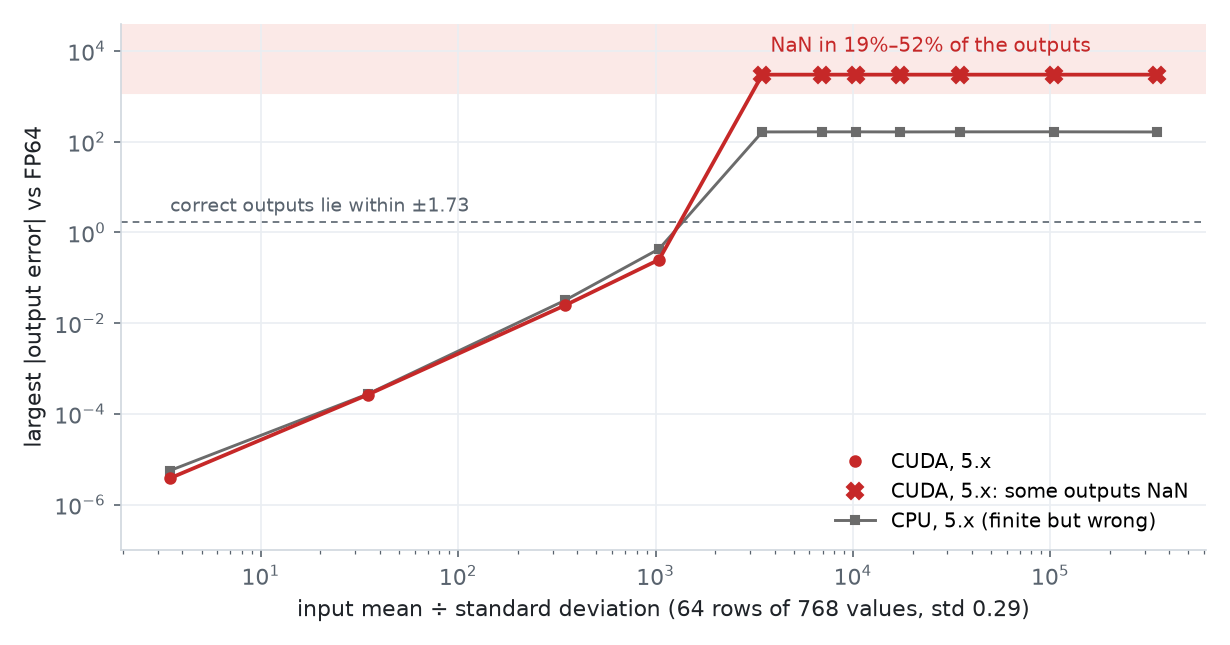
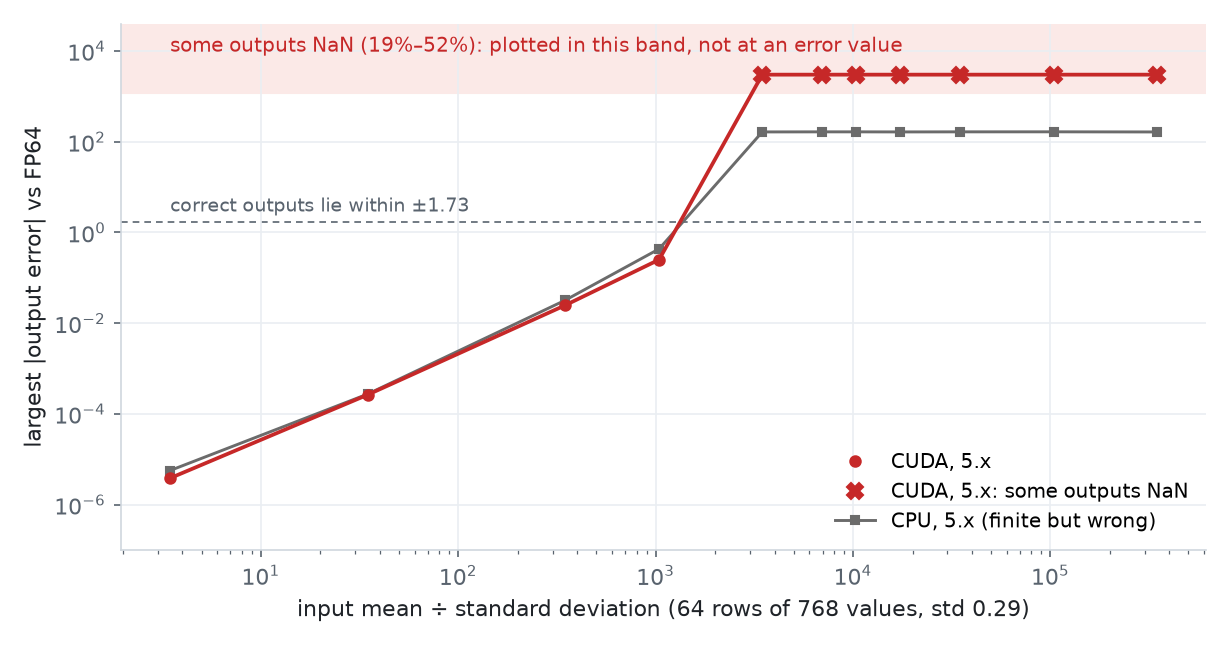
opencv-gpu-audit-2026-11: relabel charts, add the MatMul program and the no-bias Attention models

Changed region(s): [[0.1236, 0.062, 0.8959, 0.093]]

diff --git a/opencv-gpu-audit-2026-11/rewrite-2026-11-18/programs/matmul_bias.cpp b/opencv-gpu-audit-2026-11/rewrite-2026-11-18/programs/matmul_bias.cpp
@@ -1,0 +1,56 @@
+// #30922: CUDA MatMul with a constant 3-D B: alpha, and the device memory taken by a broadcast bias
+#include <opencv2/dnn.hpp>
+#include <opencv2/core/cuda.hpp>
+#include <cstdio>
+
+using namespace cv;
+using namespace cv::dnn;
+
+static Mat run(LayerParams lp, const Mat& a, int backend, int target)
+{
+    Net net;
+    net.addLayerToPrev(lp.name, lp.type, lp);
+    net.setPreferableBackend(backend);
+    net.setPreferableTarget(target);
+    net.setInput(a);
+    return net.forward().clone();
+}
+
+int main()
+{
+    // 1. alpha = 1.5, beta = 0.5: CPU and CUDA should agree
+    {
+        Mat A({2, 5, 12}, CV_32F), B({1, 12, 16}, CV_32F), bias(std::vector<int>{16}, CV_32F);
+        randu(A, -1.f, 1.f); randu(B, -0.5f, 0.5f); randu(bias, 1.f, 2.f);
+        LayerParams lp;
+        lp.type = "MatMul"; lp.name = "mm";
+        lp.set("alpha", 1.5f); lp.set("beta", 0.5f); lp.set("real_ndims_C", 1);
+        lp.blobs = {B, bias};
+        Mat cpu = run(lp, A, DNN_BACKEND_OPENCV, DNN_TARGET_CPU);
+        Mat gpu = run(lp, A, DNN_BACKEND_CUDA, DNN_TARGET_CUDA);
+        std::printf("alpha 1.5, beta 0.5: max |CPU - CUDA| = %g (expected < 1e-5)\n", norm(cpu, gpu, NORM_INF));
+    }
+    // 2. [16, 1024, 128] x [1, 128, 1024] + bias[1024]: device memory kept after the first forward()
+    {
+        Mat A({16, 1024, 128}, CV_32F), B({1, 128, 1024}, CV_32F), bias(std::vector<int>{1024}, CV_32F);
+        randu(A, -1.f, 1.f); randu(B, -0.1f, 0.1f); randu(bias, -1.f, 1.f);
+        LayerParams lp;
+        lp.type = "MatMul"; lp.name = "mm";
+        lp.set("real_ndims_C", 1);
+        lp.blobs = {B, bias};
+        run(lp, A, DNN_BACKEND_CUDA, DNN_TARGET_CUDA);  // loads the CUDA libraries
+        cuda::DeviceInfo info;
+        const size_t free0 = info.freeMemory();
+        Net net;
+        net.addLayerToPrev(lp.name, lp.type, lp);
+        net.setPreferableBackend(DNN_BACKEND_CUDA);
+        net.setPreferableTarget(DNN_TARGET_CUDA);
+        net.setInput(A);
+        net.forward();
+        const size_t free1 = info.freeMemory();
+        std::printf("[16, 1024, 128] x [1, 128, 1024] + bias[1024]: %.0f MiB of device memory after the first forward()\n",
+                    (double)(free0 - free1) / (1 << 20));
+        std::printf("(input 8 MiB, weight 0.5 MiB, output 64 MiB)\n");
+    }
+    return 0;
+}

diff --git a/opencv-gpu-audit-2026-11/rewrite-2026-11-18/programs/plot_figures.py b/opencv-gpu-audit-2026-11/rewrite-2026-11-18/programs/plot_figures.py
@@ -44,11 +44,11 @@ def norm_chart(with_fix, path):
     ax.plot(xc, yc, "s-", color=GREY, lw=1.4, ms=4, zorder=2, label="CPU, 5.x (finite but wrong)")
     if with_fix:
         xf, yf, _ = series(fixed, "CUDA")
-        ax.plot(xf, yf, "o-", color=BLUE, lw=1.8, ms=5, zorder=3, label="CUDA with this fix")
+        ax.plot(xf, yf, "o-", color=BLUE, lw=1.8, ms=5, zorder=3, label="CUDA, two passes (#30927)")
     ax.axhline(1.73, color=MUTED, lw=0.8, ls=(0, (4, 3)), zorder=1)
     ax.text(x[0], 2.3, "correct outputs lie within ±1.73", color=MUTED, fontsize=9, va="bottom")
     lo, hi = min(nan[i] for i in bad), max(nan[i] for i in bad)
-    ax.text(x[bad[0]] * 1.1, 1.25e4, f"NaN in {lo:.0%}–{hi:.0%} of the outputs", color=RED, fontsize=9.5, va="center")
+    ax.text(x[0], 1.25e4, f"some outputs NaN ({lo:.0%}–{hi:.0%}): plotted in this band, not at an error value", color=RED, fontsize=9.5, va="center", ha="left")
     ax.set_xscale("log"); ax.set_yscale("log")
     ax.set_ylim(1e-7, 4e4)
     ax.set_xlabel("input mean ÷ standard deviation (64 rows of 768 values, std 0.29)")
@@ -66,7 +66,7 @@ norm_chart(False, f"{out}/norm-error-by-offset-5x.png")
 fig, ax = plt.subplots(figsize=(8.2, 4.3), dpi=150)
 st, pr = rows("stock-attention_sweep.log"), rows("pr-attention_sweep.log")
 for prec, ls in (("fp32", "-"), ("fp16", (0, (5, 3)))):
-    for data, color, who in ((st, RED, "5.x"), (pr, BLUE, "with this PR")):
+    for data, color, who in ((st, RED, "5.x"), (pr, BLUE, "query-tiled (#30932)")):
         d = [r for r in data if r["precision"] == prec]
         xs, ys = [r["S"] for r in d], [r["device_mib"] for r in d]
         ax.plot(xs, ys, ls=ls, color=color, lw=1.8, marker="o", ms=4.5, label=f"{prec.upper()}, {who}")

diff --git a/opencv-gpu-audit-2026-11/rewrite-2026-11-18/programs/attention_mask.cpp b/opencv-gpu-audit-2026-11/rewrite-2026-11-18/programs/attention_mask.cpp
@@ -1,4 +1,4 @@
-// #30919: com.microsoft Attention with the spec's int32 mask_index [B, S], as a graph input and as a constant
+// #30919: com.microsoft Attention with the spec's int32 mask_index [B, S] (graph input, constant), and without a bias
 #include <opencv2/dnn.hpp>
 #include <cstdio>
 #include <fstream>
@@ -20,7 +20,7 @@ int main(int argc, char** argv)
     cv::Mat ref = readRaw(dir + "/attention_mask_ref.bin", {1, 16, 64}, CV_32F);
     const struct { const char* name; int backend, target; } runs[] = {
         {"CPU", cv::dnn::DNN_BACKEND_OPENCV, cv::dnn::DNN_TARGET_CPU}, {"CUDA", cv::dnn::DNN_BACKEND_CUDA, cv::dnn::DNN_TARGET_CUDA}};
-    for (const char* model : {"attention_mask_input", "attention_mask_const"})
+    for (const char* model : {"attention_mask_input", "attention_mask_const", "attention_nobias", "attention_emptybias"})
         for (const auto& r : runs)
         {
             try
@@ -36,7 +36,10 @@ int main(int argc, char** argv)
                 else
                     net.setInput(x);
                 cv::Mat y = net.forward();
-                std::printf("%s %s: max |OpenCV - onnxruntime| = %g\n", model, r.name, cv::norm(y.reshape(1, 1), ref.reshape(1, 1), cv::NORM_INF));
+                if (std::string(model).rfind("attention_mask", 0) == 0)
+                    std::printf("%s %s: max |OpenCV - onnxruntime| = %g\n", model, r.name, cv::norm(y.reshape(1, 1), ref.reshape(1, 1), cv::NORM_INF));
+                else
+                    std::printf("%s %s: runs\n", model, r.name);
             }
             catch (const cv::Exception& e)
             {

diff --git a/opencv-gpu-audit-2026-11/rewrite-2026-11-18/programs/make_models.py b/opencv-gpu-audit-2026-11/rewrite-2026-11-18/programs/make_models.py
@@ -63,6 +63,11 @@ save("attention_mask_input", [attn], [vi("X", [1, S, Dm]), vi("M", [1, S], Tenso
 save("attention_mask_const", [attn], [vi("X", [1, S, Dm])], [vi("Y", [1, S, Dm])],
      [numpy_helper.from_array(wm, "W"), numpy_helper.from_array(bm, "Bias"), numpy_helper.from_array(mask, "M")], ms=True)
 
+# com.microsoft Attention without a bias, which the spec allows: two inputs, and an empty bias name
+for name, ins in (("attention_nobias", ["X", "W"]), ("attention_emptybias", ["X", "W", ""])):
+    save(name, [helper.make_node("Attention", ins, ["Y"], domain="com.microsoft", num_heads=Hm, qkv_hidden_sizes=[Dm, Dm, Dm])],
+         [vi("X", [1, S, Dm])], [vi("Y", [1, S, Dm])], [numpy_helper.from_array(wm, "W")], ms=True)
+
 # onnxruntime references for the mask models, written as raw float32
 import onnxruntime as ort
 x = rng.uniform(-1, 1, (1, S, Dm)).astype(np.float32)
